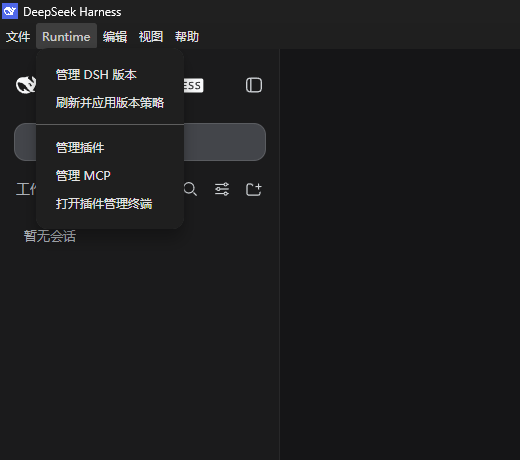
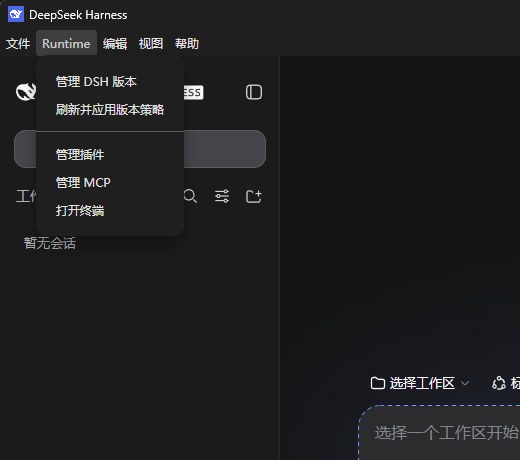
fix: restore Runtime terminal menu

diff --git a/src/cli-shell.ts b/src/cli-shell.ts
@@ -25,26 +25,25 @@ export async function prepareCliShim(runtime: InstalledRuntime, userData: string
   return directory
 }
 
-export async function openPluginTerminal(
+export async function openTerminal(
   cliDirectory: string,
   cwd: string,
   inherited: NodeJS.ProcessEnv = process.env,
 ): Promise<void> {
   const environment: NodeJS.ProcessEnv = { ...inherited, Path: `${cliDirectory};${inherited.Path ?? inherited.PATH ?? ''}` }
   environment.PATH = environment.Path
-  const command = [
-    "$Host.UI.RawUI.WindowTitle = 'DeepSeek Harness 插件管理'",
-    "Write-Host 'dsh plugin --profile web list' -ForegroundColor Cyan",
-    "Write-Host 'dsh plugin --profile web add <package-spec>' -ForegroundColor DarkGray",
-  ].join('; ')
   await new Promise<void>((resolve, reject) => {
-    const child = spawn('powershell.exe', ['-NoExit', '-Command', command], {
-      cwd,
-      env: environment,
-      detached: true,
-      stdio: 'ignore',
-      windowsHide: false,
-    })
+    const child = spawn(
+      inherited.ComSpec ?? inherited.COMSPEC ?? 'cmd.exe',
+      ['/d', '/s', '/c', 'start "" "%ComSpec%" /d /k "title DeepSeek Harness"'],
+      {
+        cwd,
+        env: environment,
+        detached: true,
+        stdio: 'ignore',
+        windowsHide: true,
+      },
+    )
     child.once('error', reject)
     child.once('spawn', () => { child.unref(); resolve() })
   })

diff --git a/tests/cli-shell.spec.ts b/tests/cli-shell.spec.ts
@@ -1,0 +1,44 @@
+import { EventEmitter } from 'node:events'
+import { beforeEach, describe, expect, it, vi } from 'vitest'
+
+const spawn = vi.hoisted(() => vi.fn())
+
+vi.mock('node:child_process', () => ({ spawn }))
+
+import { openTerminal } from '../src/cli-shell.ts'
+
+class FakeChild extends EventEmitter {
+  readonly unref = vi.fn()
+}
+
+describe('CLI terminal', () => {
+  beforeEach(() => { spawn.mockReset() })
+
+  it('opens a visible persistent Windows terminal with the DSH CLI on PATH', async () => {
+    const child = new FakeChild()
+    spawn.mockReturnValue(child)
+    const opened = openTerminal('C:\\Desktop\\cli', 'C:\\Users\\tester\\.dsh', {
+      ComSpec: 'C:\\Windows\\System32\\cmd.exe',
+      Path: 'C:\\Windows',
+    })
+
+    expect(spawn).toHaveBeenCalledWith(
+      'C:\\Windows\\System32\\cmd.exe',
+      ['/d', '/s', '/c', 'start "" "%ComSpec%" /d /k "title DeepSeek Harness"'],
+      {
+        cwd: 'C:\\Users\\tester\\.dsh',
+        env: expect.objectContaining({
+          PATH: 'C:\\Desktop\\cli;C:\\Windows',
+          Path: 'C:\\Desktop\\cli;C:\\Windows',
+        }),
+        detached: true,
+        stdio: 'ignore',
+        windowsHide: true,
+      },
+    )
+
+    child.emit('spawn')
+    await opened
+    expect(child.unref).toHaveBeenCalledOnce()
+  })
+})

diff --git a/src/main.ts b/src/main.ts
@@ -21,7 +21,7 @@ import {
 } from 'electron'
 import { MINIMUM_DSH_VERSION, type RuntimePreference } from './catalog.ts'
 import { DesktopPetController as PetEventController, type PetRendererState as PetProtocolState, type PetWebSocket } from './desktop-pet.ts'
-import { openPluginTerminal } from './cli-shell.ts'
+import { openTerminal } from './cli-shell.ts'
 import { McpManager, type McpList } from './mcp-manager.ts'
 import { mutateMcpWithRuntime } from './mcp-restart.ts'
 import { PersonalizationManager } from './personalization-manager.ts'
@@ -712,13 +712,13 @@ function installMenu(): void {
           click: () => { void openMcpManager() },
         },
         {
-          label: '打开插件管理终端',
+          label: '打开终端',
           enabled: cliDirectory !== undefined,
           click: () => {
             if (cliDirectory === undefined) return
             const home = process.env.DSH_HOME ?? join(homedir(), '.dsh')
-            void openPluginTerminal(cliDirectory, home).catch((error: unknown) => {
-              dialog.showErrorBox('无法打开插件管理终端', String(error))
+            void openTerminal(cliDirectory, home).catch((error: unknown) => {
+              dialog.showErrorBox('无法打开终端', String(error))
             })
           },
         },

diff --git a/tests/runtime-ui-contract.spec.ts b/tests/runtime-ui-contract.spec.ts
@@ -81,6 +81,13 @@ describe('runtime startup UI contract', () => {
     expect(preload).toContain("startupRetry.hidden = runtimeManagerMode || view.phase !== 'error'")
   })
 
+  it('opens the prepared DSH terminal from the Runtime menu', () => {
+    expect(main).toContain("label: '打开终端'")
+    expect(main).toContain('void openTerminal(cliDirectory, home)')
+    expect(main).toContain("dialog.showErrorBox('无法打开终端'")
+    expect(main).not.toContain('打开插件管理终端')
+  })
+
   it('authorizes both exact runtime-page windows and no unrelated utility sender', () => {
     const guard = main.slice(main.indexOf('function runtimeClient'), main.indexOf('function pluginService'))
     expect(guard).toContain('event.sender === mainWindow.webContents')

diff --git a/README.md b/README.md
@@ -53,7 +53,7 @@ https://github.com/ToxicantX/dsh-multi-model-orchestrator
 - **刷新并应用版本策略**：重新读取 Runtime Catalog，按当前策略下载、切换或重启 Runtime。
 - **管理插件**：安装、更新或移除当前 Web Profile 的插件，并查看操作进度与日志。
 - **管理 MCP**：搜索本机 MCP、查看配置来源和 DSH 接入状态，并启用或禁用可管理的条目。
-- **打开插件管理终端**：为高级用户打开已配置好 Node、pnpm 和 `dsh` 命令的终端。
+- **打开终端**：为高级用户打开已配置好 Node、pnpm 和 `dsh` 命令的终端。
 
 插件或 MCP 发生变更时，Shell 会先停止 Runtime，完成原子修改后再自动启动，避免 Web 在依赖变更过程中读取不完整文件。
 
@@ -118,7 +118,7 @@ github:owner/repo
 
 Registry 插件在检测到兼容新版本时显示更新按钮；GitHub、git、link、file 和 workspace 来源提供手动更新。若插件导致 DSH 无法启动，Shell 自带的插件管理器仍可独立打开，用于移除或更新问题插件。
 
-高级用户也可以在 **Runtime → 打开插件管理终端** 中使用：
+高级用户也可以在 **Runtime → 打开终端** 中使用：
 
 ```powershell
 dsh plugin --profile web list
